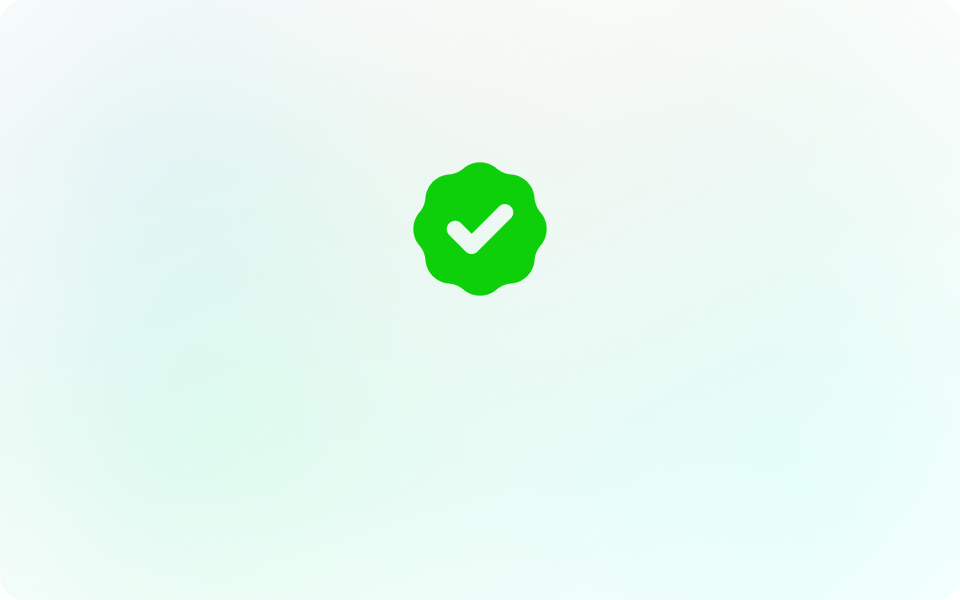
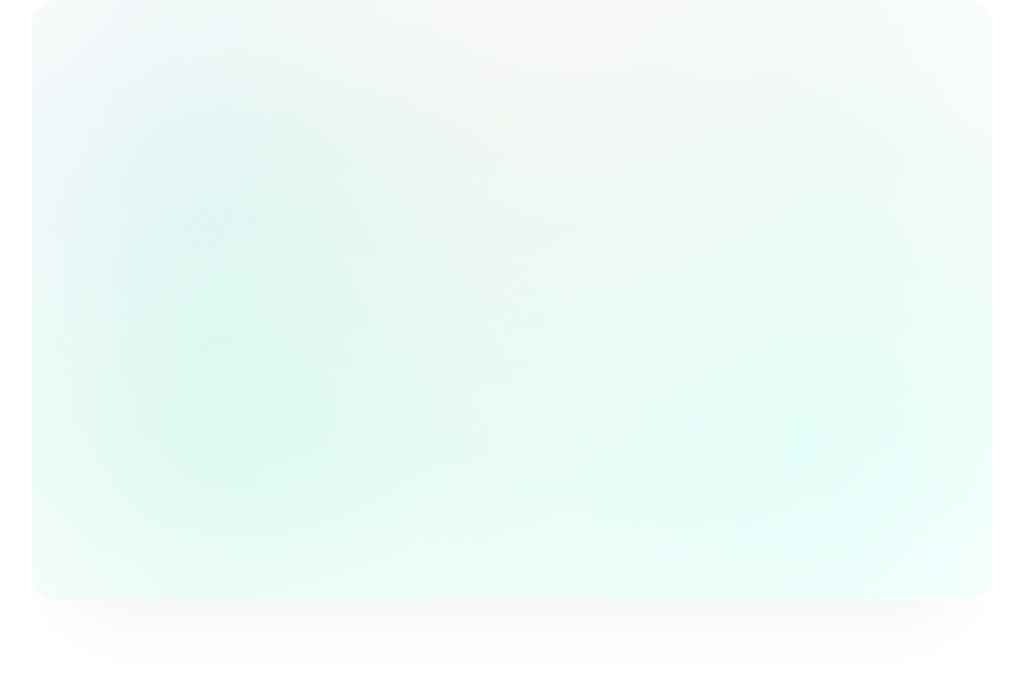
add a company completed

Changed region(s): [[0.4062, 0.27, 0.5938, 0.51]]

diff --git a/pages/addcompany.tsx b/pages/addcompany.tsx
@@ -7,11 +7,12 @@ import { ToastContainer, toast } from "react-toastify";
 import "react-toastify/dist/ReactToastify.css";
 import axios from "axios";
 import { ReactSearchAutocomplete } from "react-search-autocomplete";
+import BadgeCheckIcon from "@heroicons/react/solid/BadgeCheckIcon";
 
 export default function AddCompany() {
   const [modelStage, setModelStage] = useState<number>(0);
   const router = useRouter();
-  const [error, setError] = useState<boolean>(false);
+  const [error, setError] = useState<string>("");
   const [companies, setCompanies] = useState<any>({});
   const [company, setCompany] = useState<Company>({
     id: 0,
@@ -74,22 +75,19 @@ export default function AddCompany() {
 
   const checkError = () => {
     if (company.name === "") {
-      setError(true);
-      toast("Company name not set");
+      setError("Company name not set");
     } else if (!validURL(company.website)) {
-      toast("Company website entered is incorrect");
+      setError("Company website entered is incorrect");
     } else if (company.city === "") {
-      setError(true);
-      toast("City is incorrect");
+      setError("City is incorrect");
     } else if (company.country === "") {
-      setError(true);
-      toast("Country is incorrect");
+      setError("Country is incorrect");
     } else if (company.description === "") {
-      setError(true);
-      toast("Company description is incorrect");
+      setError("Company description is incorrect");
     } else {
       setModelStage(modelStage + 1);
       forceUpdate();
+      setError("");
     }
   };
 
@@ -99,7 +97,6 @@ export default function AddCompany() {
     } else if (modelStage === 1) {
       addCompany();
     }
-    setError(false);
   };
 
   const cancel = () => {
@@ -110,7 +107,6 @@ export default function AddCompany() {
     }
   };
   const handleOnSelect = (item: any) => {
-    console.log(item);
     company.name = item.name;
     company.logo = item.logo;
     company.website = item.domain;
@@ -118,13 +114,39 @@ export default function AddCompany() {
     forceUpdate();
   };
 
+  const VerificationStage = () => {
+    return (
+      <div className="flex flex-col justify-center items-center text-center bg-center bg-company-added bg-cover m-10 p-16">
+        <div className=" w-20 h-20 md:w-40 md:h-40">
+          <BadgeCheckIcon color="#0ED00A" />
+        </div>
+
+        <div className="text-bold text-base md:text-2xl font-cabinet-grotesk ">
+          Company added successfully!
+        </div>
+        <div className=" text-gray-500  text-sm md:text-lg font-cabinet-grotesk">
+          Bravo! thank you for adding the company. Your contribution goes a long
+          way in helping others learn about co-op experiences at different
+          companies.
+        </div>
+        <button className="bg-button-blue text-white text-xs lg:text-base  rounded-xl p-2 mx-auto mt-5">
+          Add a review for added Company
+        </button>
+        <button
+          className="rounded-xl  text-xs lg:text-base p-2  my-2  border-2 border-gray-300  mx-auto"
+          onClick={cancel}
+        >
+          Back to home page
+        </button>
+      </div>
+    );
+  };
   const findCompany = async (name) => {
     try {
       const companies = await axios.get(
         `https://autocomplete.clearbit.com/v1/companies/suggest?query=${name}`,
         { headers: { Authorization: `Bearer ${process.env.CLEARBIT_API_KEY}` } }
       );
-      console.log(companies.data);
       setCompanies(companies.data);
     } catch (err) {
       console.log(err);
@@ -143,25 +165,7 @@ export default function AddCompany() {
         </h4>
       </div>
       {modelStage === 2 ? (
-        <div className="flex flex-col justify-center mx-32 p-40 mb-5  bg-company-added bg-cover">
-          <div className="text-bold mt-52 mx-auto text-2xl font-cabinet-grotesk ">
-            Company added successfully!
-          </div>
-          <div className="text-gray-500 mx-auto ml-20 text-md font-cabinet-grotesk">
-            Bravo! thank you for adding the company. Your contribution goes a
-            long way in helping others learn about co-op experiences
-            <p className="ml-64"> at different companies.</p>
-          </div>
-          <button className="bg-button-blue text-white rounded-xl p-3 mx-auto mt-5">
-            Add a review for added Company
-          </button>
-          <button
-            className="rounded-xl p-2  mt-2 mb-4 border-2 border-gray-300  mx-auto"
-            onClick={cancel}
-          >
-            Back to home page
-          </button>
-        </div>
+        VerificationStage()
       ) : (
         <div>
           <div className="flex flex-col bg-white shadow rounded-xl px-8 py-2 max-w-lg mx-auto mb-5">
@@ -202,7 +206,7 @@ export default function AddCompany() {
                     Company Name
                   </label>
                   <div
-                    style={{ width: 450 }}
+                    className="w-100 md:w-200"
                     onChange={(e) => {
                       company.name = e.currentTarget.nodeValue;
                       setCompany(company);
@@ -249,7 +253,7 @@ export default function AddCompany() {
                     className="rounded-lg placeholder-gray-300 resize-none"
                   />
                 </div>
-                <div className="flex">
+                <div className="flex flex-col md:flex-row">
                   <div className="flex flex-col mt-4 space-y-1">
                     <label className="font-cabinet-grotesk mt-2 text-gray-500 text-sm self-start">
                       City
@@ -298,7 +302,7 @@ export default function AddCompany() {
                     className="mt-4 max-h-20 max-w-lg"
                   />
                   <div className="flex flex-col">
-                    <h1 className="text-xl font-cabinet-grotesk mt-5 ml-10">
+                    <h1 className=" text-sm md:text-xl font-cabinet-grotesk mt-5 ml-10">
                       {company.name}
                     </h1>
                     <h1 className="text-sm text-gray-600 font-cabinet-grotesk mt-2 ml-10">
@@ -307,7 +311,7 @@ export default function AddCompany() {
                         : company.description}
                     </h1>
                     <a
-                      href={"https://" + company.website}
+                      href={company.website}
                       className=" font-cabinet-grotesk mt-2 ml-10 text-md"
                       target="_blank"
                       rel="noreferrer"
@@ -320,7 +324,6 @@ export default function AddCompany() {
                   <label className="font-cabinet-grotesk mt-2 text-gray-500 text-sm self-start">
                     Location
                   </label>
-                  {console.log(company.city)}
                   <input
                     placeholder={company.city + "," + company.country}
                     type="text"
@@ -330,7 +333,11 @@ export default function AddCompany() {
                 </div>
               </div>
             ) : null}
-
+            {error !== "" ? (
+              <p className="m-2 font-cabinet-grotesk text-sm font-semibold text-red-700">
+                {error}
+              </p>
+            ) : null}
             <button
               className="bg-button-blue text-white rounded-xl p-3  mx-10 my-4"
               onClick={addModelStage}

diff --git a/tailwind.config.js b/tailwind.config.js
@@ -2,16 +2,13 @@ module.exports = {
   purge: ["./pages/**/*.{js,ts,jsx,tsx}", "./components/**/*.{js,ts,jsx,tsx}"],
   darkMode: false, // or 'media' or 'class'
   theme: {
-    height: {
-      "gradient-2-circle": "408px",
-    },
-    width: {
-      "gradient-2-circle": "408px",
-    },
-    // fontSize:{
-    //   xl:['48px','72px']
-    // },
     extend: {
+      height: {
+        "gradient-2-circle": "408px",
+      },
+      width: {
+        "gradient-2-circle": "408px",
+      },
       blur: {
         small: "60px",
         huge: "128px",
